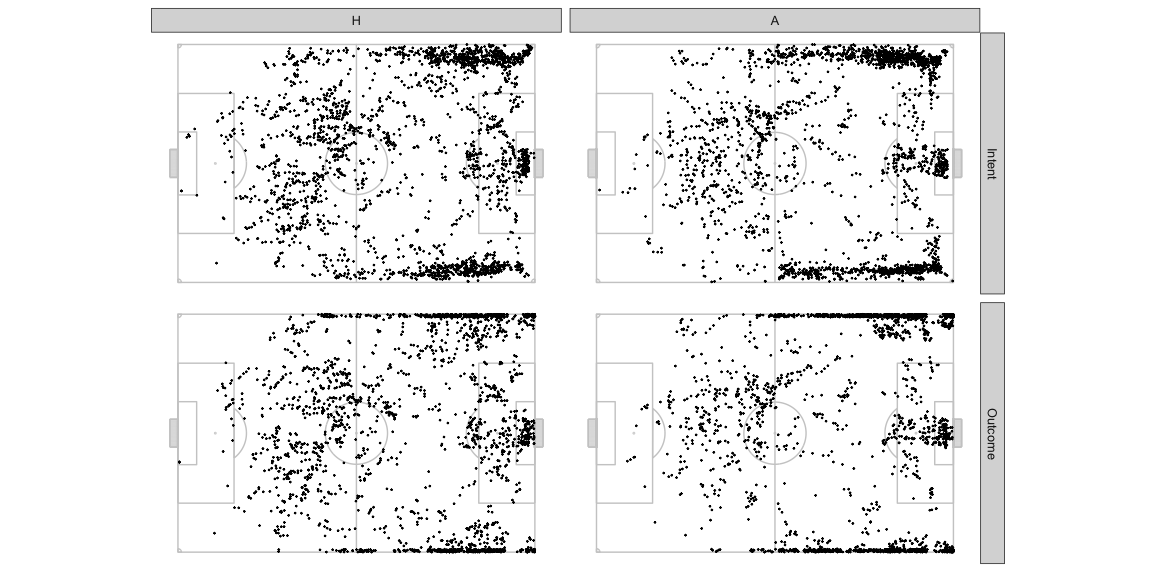
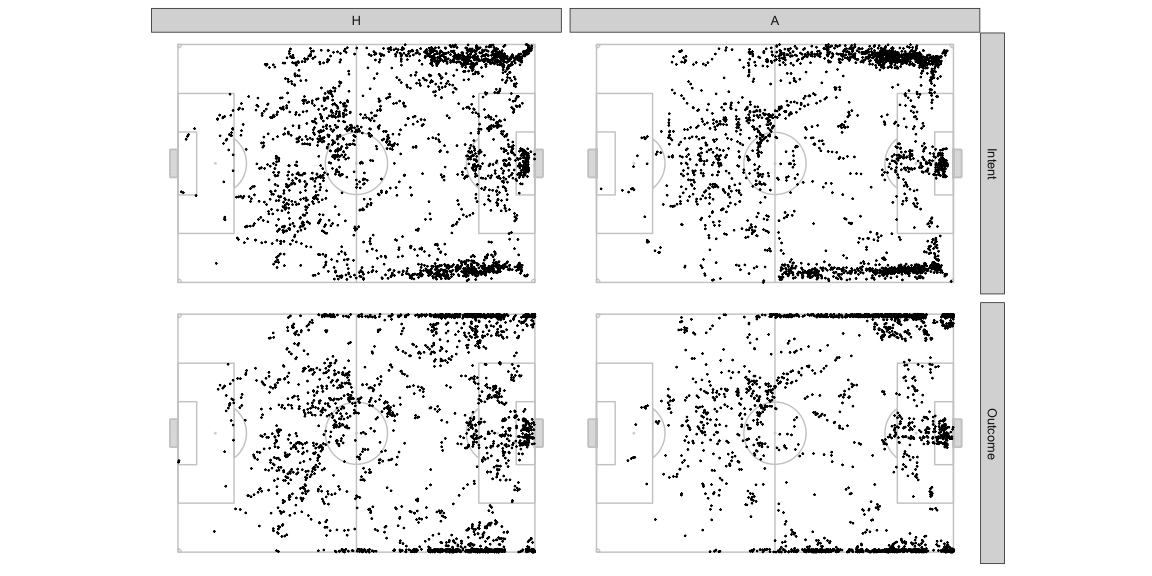
Clearing up pass probabilty difference

diff --git a/README.md b/README.md
@@ -326,7 +326,7 @@ you are by now.
 
 Note how most high value `AttackEPVAdded_xy` passes are long passes,
 often aimed at the edges of the pitch. Note how the optimal targets are
-also concentrateda around the edges of the pitch. Long passes are likely
+also concentrated around the edges of the pitch. Long passes are likely
 to fetch more PV because it usually gets you much closer to the goal
 from where the ball was before. Edges of the pitch are more attractive
 because defenders will tend to stay towards the insides of the pitch
@@ -334,13 +334,19 @@ leaving one side less for a defender to impact the pitch control of a
 wide positioned player from the attacking team. This is expected.
 
 The reason I started writing is because while these are rewarding passes
-if they actually happen, it is also much harder to execute such passes
-and that difficulty does not get considered in the current pitch control
-and possession value models. The risk of passing the ball out of bounds,
-or not being able to pass accurately to the point with the maximum EPV
-added is much higher for such passes compared to easier passes to
-someone in the middle of the pitch or to someone closer to the player in
-possession. Until now we were looking at an outcome based
+if they actually happen, it is also much harder to execute such passes.
+In the EPV paper, there is a pass probability component which is a
+logistic regression model but if it is like most other pass probability
+models then it is also modelling the probability of accurately passing
+to a particular point on the pitch and the training data is probably
+based on historic pass data which are again outcomes. I think there is
+room to improve this.
+
+The risk of passing the ball out of bounds, or not being able to pass
+accurately to the point with the maximum EPV added is much higher for
+passes close to the sidelines, long passes, and so on compared to easier
+passes to someone in the middle of the pitch or to someone closer to the
+player in possession. Until now we were looking at an outcome based
 `AttackMaxEPVAdded` i.e. the EPV the team could expect to gain if the
 ball reached a particular `(x.y)` but if we switch to an intention based
 `AttackEPVAdded_xy`, i.e. the EPV the team could expect to gain if the
@@ -383,6 +389,11 @@ pitch control and expected possession values for each intended target
 location by aggregating the outcome based pitch control and expected
 possession values of all its actual target locations weighed by the the
 probability of that actual target location.
+
+This is not the same as just having a pass distance feature in the pass
+probability logistic regression model. We are redefining pitch control
+and possession value altogether by differentiating what they mean for a
+receiver and what they mean for a passer.
 
 ### Combining Pitch Control, Possession Value, and Intent - Example
 
